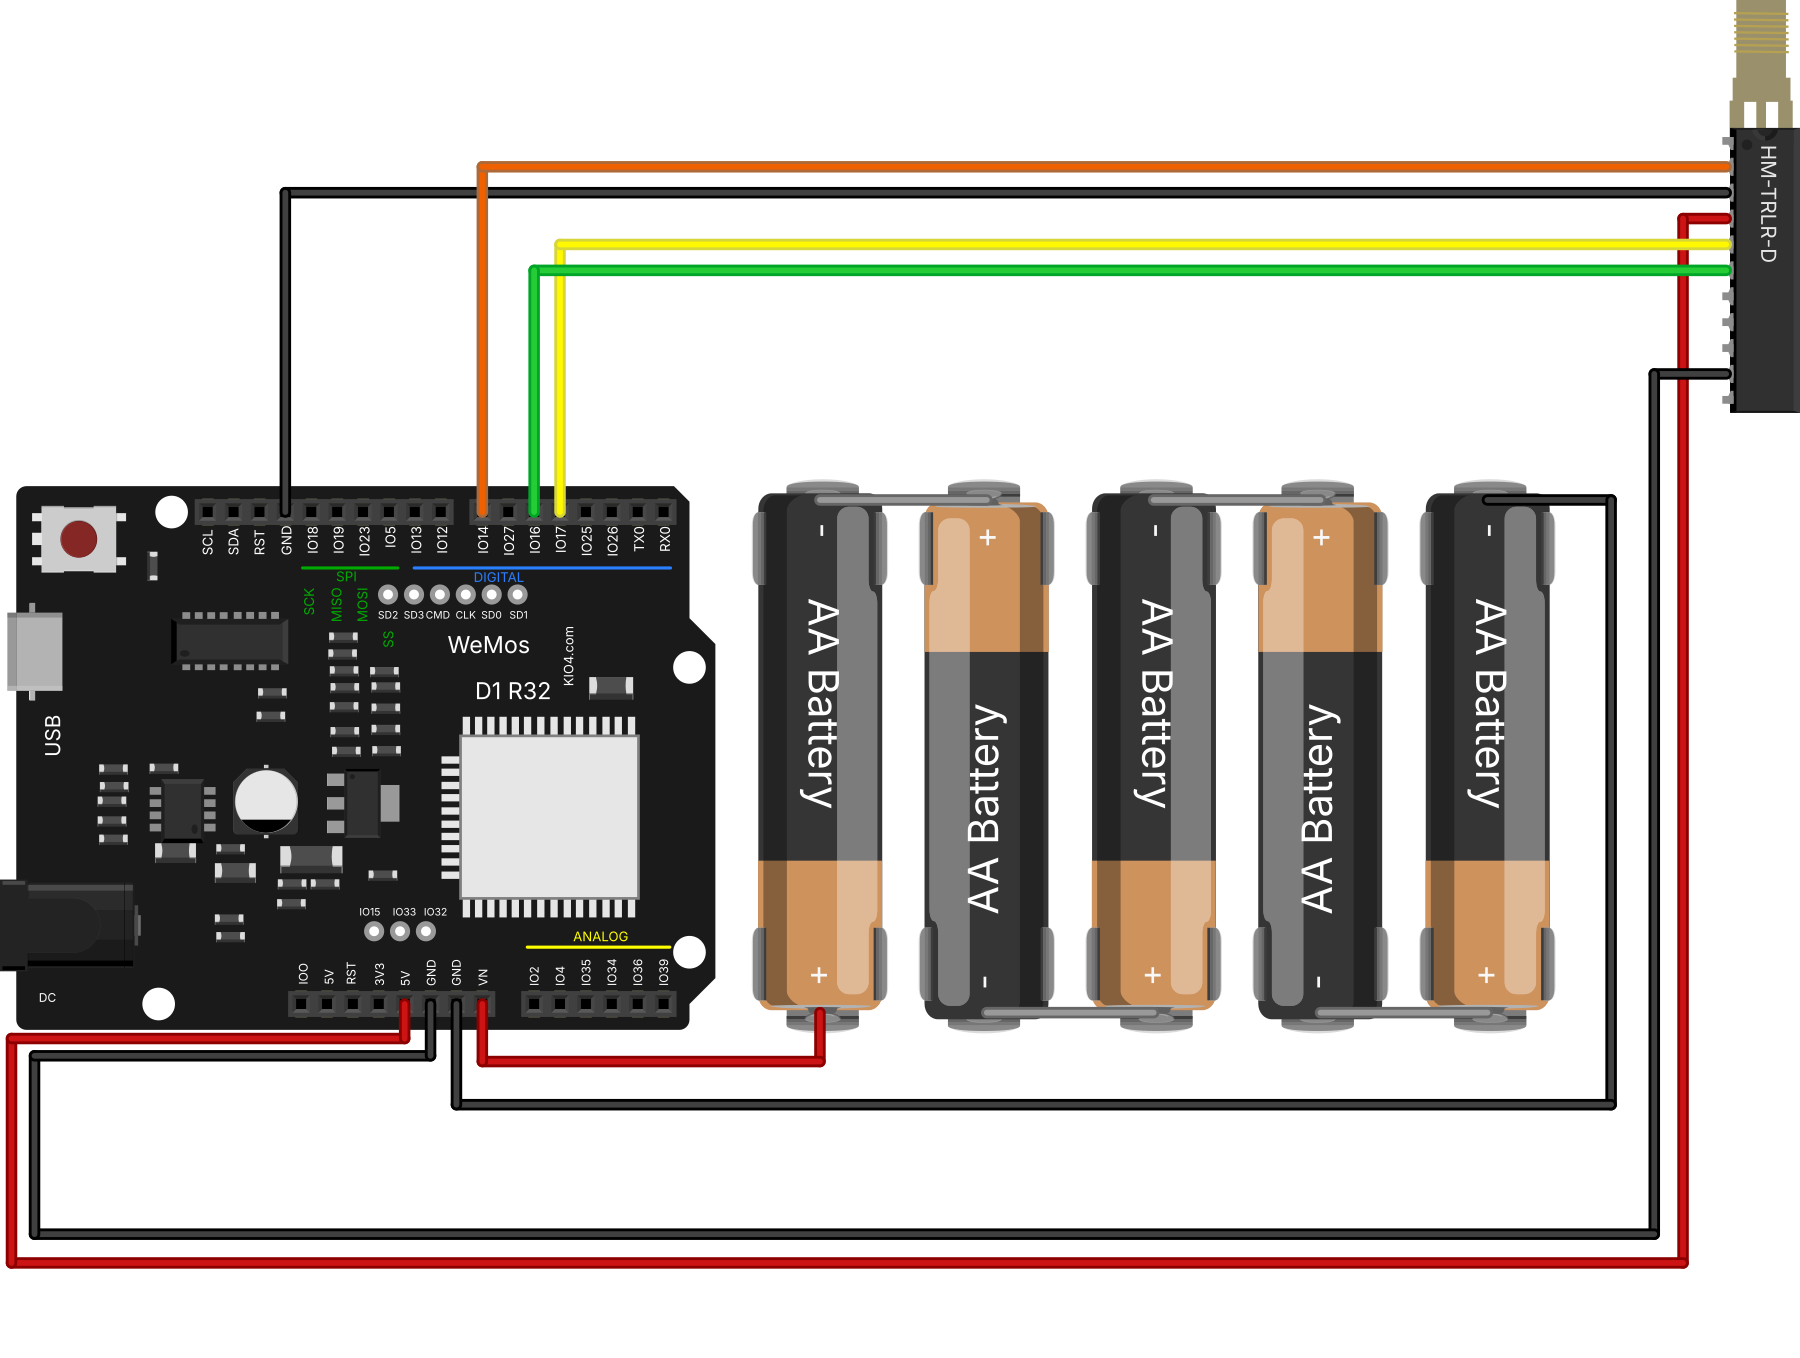
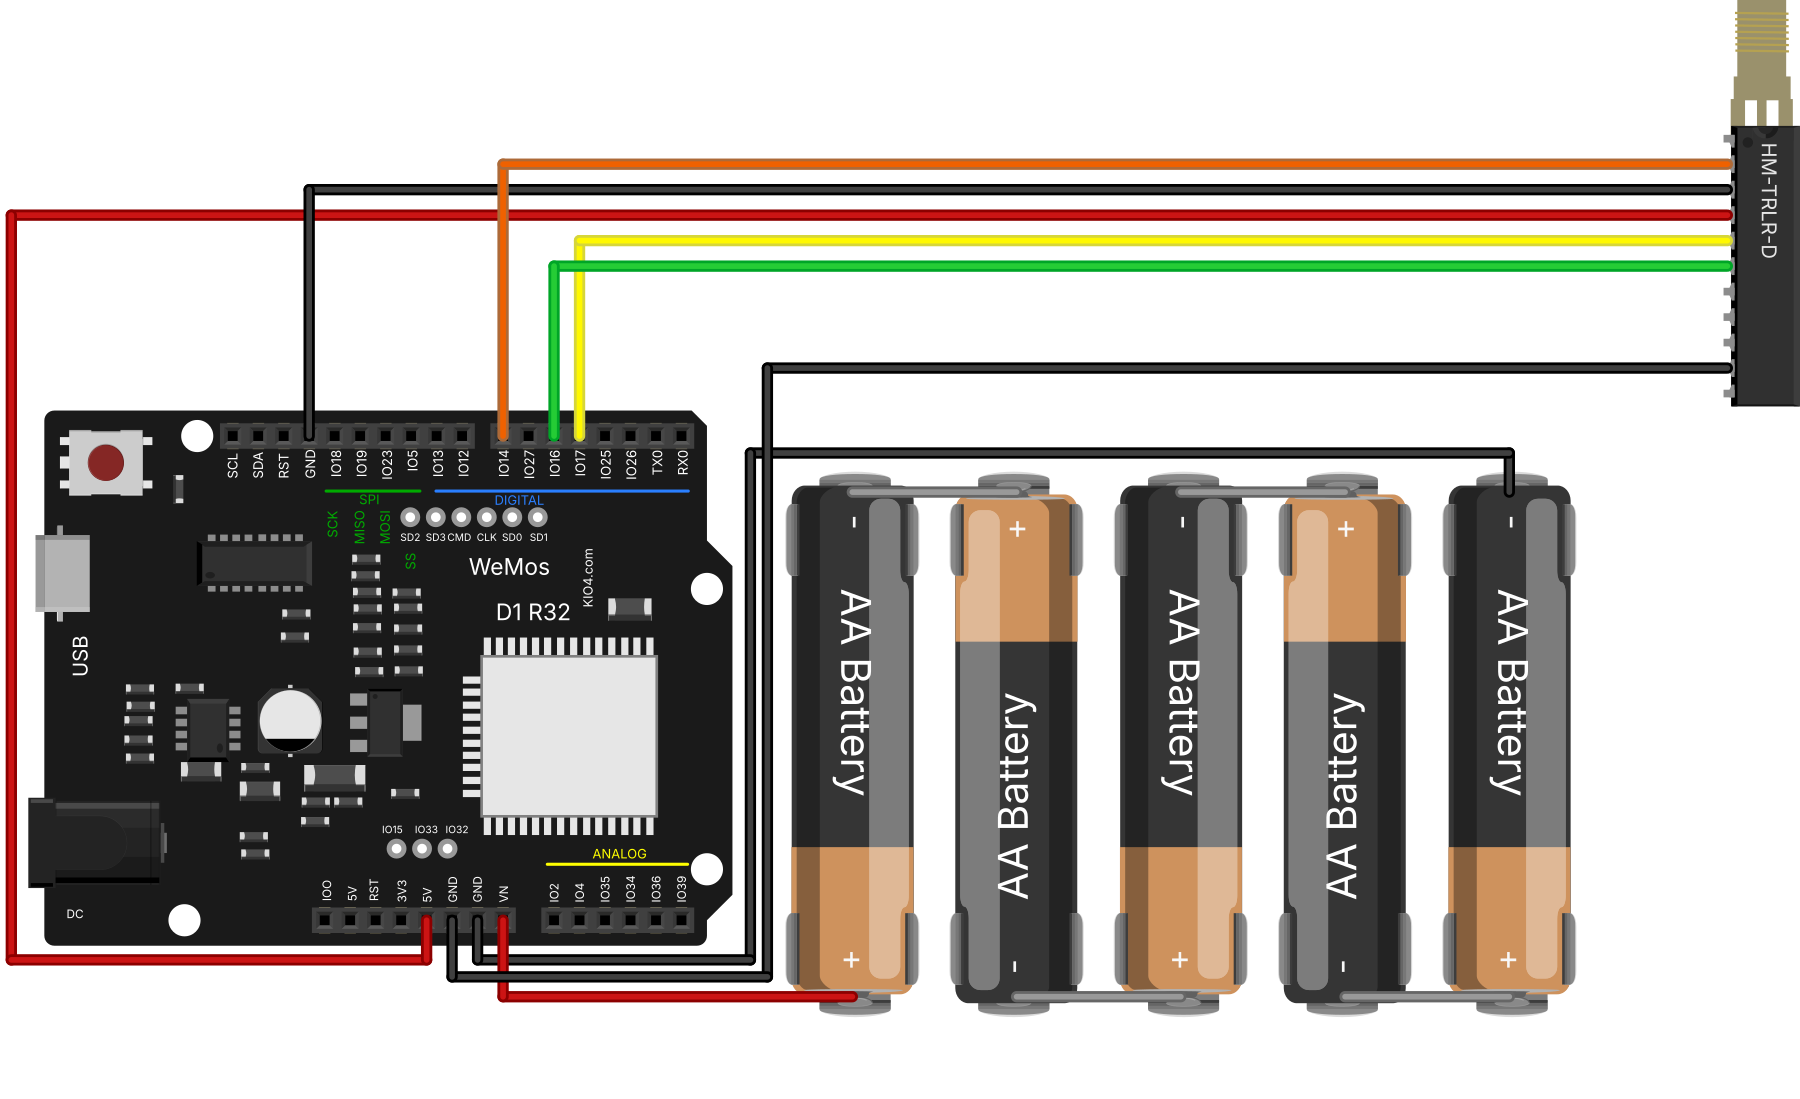
fox-transmitter diagram: power wires stay within the height of the board and cells

diff --git a/software/fox-transmitter/docs/fritzing/make_fzz.py b/software/fox-transmitter/docs/fritzing/make_fzz.py
@@ -25,7 +25,7 @@ RED, BLACK, YELLOW, GREEN, ORANGE, GREY = "#cc1414", "#404040", "#ffe24d", "#47c
 
 sk = Sketch()
 r32 = Part(sk, "Wemos-D1-R32_1", "part.Wemos-D1-R32_1.fzp", "WeMos D1 R32",
-           os.path.join(OWN, "svg.breadboard.Wemos-D1-R32_1_breadboard.svg"), (0, 0), 0,
+           os.path.join(OWN, "svg.breadboard.Wemos-D1-R32_1_breadboard.svg"), (0, -24.0), 0,
            fzp=os.path.join(OWN, "part.Wemos-D1-R32_1.fzp"))
 B = {"IO14": "connector21", "IO16": "connector19", "IO17": "connector18", "5V": "connector4",
      "GND": "connector5", "GND_VIN": "connector6", "VIN": "connector7", "GND_TOP": "connector28"}
@@ -56,7 +56,7 @@ AA = "SparkFun-Electromechanical-BATTERY-AA"
 AA_FZP = os.path.join(LIB, "core/sparkfun-electromechanical-battery-aa.fzp")
 AA_SVG = os.path.join(LIB, "svg/core/breadboard/sparkfun-electromechanical_battery-aa_breadboard.svg")
 PLUS, MINUS = "connector0", "connector1"  # right / left end of the cell art
-X_CELL1, CELL_PITCH, Y_CELL_BOTTOM = 285.0, 58.0, 183.0
+X_CELL1, CELL_PITCH, Y_CELL_BOTTOM = 291.0, 58.0, 183.0
 cells = []
 for k in range(5):
     plus_down = k % 2 == 0
@@ -65,31 +65,31 @@ for k in range(5):
     c.place(PLUS if plus_down else MINUS, (X_CELL1 + CELL_PITCH * k, Y_CELL_BOTTOM))  # bottom end
     cells.append(c)
 
-# Module 5V and SLEEP runs: down between the pack and the module, under
-# everything, up the left of the board and into the power header from below,
-# so they never meet the battery leads.
-X_SLEEP, X_5V = 575.0, 585.0          # right side, 5V outermost
-X_SLEEP_L, X_5V_L = 12.0, 4.0         # left side, 5V outermost
-Y_5V_TOP, Y_SLEEP_TOP = 192.0, 198.0  # just under the power header
-Y_BATP, Y_BATM = 200.0, 215.0         # battery leads under the header
-X_BATM = 560.0                        # battery - comes down right of the pack
+# The board sits higher than the pack, so everything going to its power header
+# runs in the strip under it and never below the cells. Battery + comes in from
+# the bottom of the first cell into VIN, the rightmost pin, so the module's 5V
+# (the leftmost pin) goes round the left of the board instead of crossing it.
+# Module SLEEP and battery - come down the gap between the board and the pack.
+X_5V_L = -6.0                         # 5V down the left of the board
+X_BATM, X_SLEEP = 255.0, 261.0        # gap between the board and the pack
+Y_BATM, Y_SLEEP, Y_5V_LOW = 170.0, 176.0, 170.0
+Y_BATM_TOP = -9.0                     # battery - over the top of the cells
 y = {n: sip.pt(M[n])[1] for n in PINS}
 pins = {k: r32.pt(v) for k, v in B.items()}
+assert r32.bbox()[3] < Y_BATM - 3 and Y_SLEEP < cells[0].pt(PLUS)[1] - 3
 bat_plus, bat_minus = cells[0].pt(PLUS), cells[4].pt(MINUS)
-Y_SLEEP_LOW, Y_5V_LOW = Y_BATM + 45, Y_BATM + 55
 nodes = {
     "cfg": (sip, M["CONFIG"]), "c1": (pins["IO14"][0], y["CONFIG"]), "io14": (r32, B["IO14"]),
     "rxd": (sip, M["RXD"]), "r1": (pins["IO17"][0], y["RXD"]), "io17": (r32, B["IO17"]),
     "txd": (sip, M["TXD"]), "t1": (pins["IO16"][0], y["TXD"]), "io16": (r32, B["IO16"]),
-    "m5v": (sip, M["5V"]), "v1": (X_5V, y["5V"]), "v2": (X_5V, Y_5V_LOW), "v3": (X_5V_L, Y_5V_LOW),
-    "v4": (X_5V_L, Y_5V_TOP), "v5": (pins["5V"][0], Y_5V_TOP), "b5v": (r32, B["5V"]),
+    "m5v": (sip, M["5V"]), "v1": (X_5V_L, y["5V"]), "v2": (X_5V_L, Y_5V_LOW), "v3": (pins["5V"][0], Y_5V_LOW),
+    "b5v": (r32, B["5V"]),
     "mgnd": (sip, M["GND"]), "g1": (pins["GND_TOP"][0], y["GND"]), "bgndt": (r32, B["GND_TOP"]),
-    "sleep": (sip, M["SLEEP"]), "s1": (X_SLEEP, y["SLEEP"]), "s2": (X_SLEEP, Y_SLEEP_LOW),
-    "s3": (X_SLEEP_L, Y_SLEEP_LOW), "s4": (X_SLEEP_L, Y_SLEEP_TOP), "s5": (pins["GND"][0], Y_SLEEP_TOP),
-    "bgnd": (r32, B["GND"]),
-    "bp": (cells[0], PLUS), "bp1": (bat_plus[0], Y_BATP), "bp2": (pins["VIN"][0], Y_BATP), "vin": (r32, B["VIN"]),
-    "bm": (cells[4], MINUS), "bm1": (X_BATM, bat_minus[1]), "bm2": (X_BATM, Y_BATM),
-    "bm3": (pins["GND_VIN"][0], Y_BATM), "bgndv": (r32, B["GND_VIN"]),
+    "sleep": (sip, M["SLEEP"]), "s1": (X_SLEEP, y["SLEEP"]), "s2": (X_SLEEP, Y_SLEEP),
+    "s3": (pins["GND"][0], Y_SLEEP), "bgnd": (r32, B["GND"]),
+    "bp": (cells[0], PLUS), "bp1": (pins["VIN"][0], bat_plus[1]), "vin": (r32, B["VIN"]),
+    "bm": (cells[4], MINUS), "bm1": (bat_minus[0], Y_BATM_TOP), "bm2": (X_BATM, Y_BATM_TOP),
+    "bm3": (X_BATM, Y_BATM), "bm4": (pins["GND_VIN"][0], Y_BATM), "bgndv": (r32, B["GND_VIN"]),
 }
 edges = []
 for k in range(4):  # series links between neighbouring cells (holder springs)
@@ -98,23 +98,24 @@ for k in range(4):  # series links between neighbouring cells (holder springs)
     edges.append((f"l{k}a", f"l{k}b", GREY))
 edges += [
     # power first so it is drawn underneath the signal wires it has to pass
-    ("bm", "bm1", BLACK), ("bm1", "bm2", BLACK), ("bm2", "bm3", BLACK), ("bm3", "bgndv", BLACK),  # - -> GND
-    ("bp", "bp1", RED), ("bp1", "bp2", RED), ("bp2", "vin", RED),                                 # + -> VIN
-    ("m5v", "v1", RED), ("v1", "v2", RED), ("v2", "v3", RED), ("v3", "v4", RED), ("v4", "v5", RED), ("v5", "b5v", RED),
+    ("bm", "bm1", BLACK), ("bm1", "bm2", BLACK), ("bm2", "bm3", BLACK), ("bm3", "bm4", BLACK),
+    ("bm4", "bgndv", BLACK),                                                                 # - -> GND
+    ("bp", "bp1", RED), ("bp1", "vin", RED),                                                 # + -> VIN
+    ("m5v", "v1", RED), ("v1", "v2", RED), ("v2", "v3", RED), ("v3", "b5v", RED),
     ("mgnd", "g1", BLACK), ("g1", "bgndt", BLACK),                             # module GND -> top GND
-    ("sleep", "s1", BLACK), ("s1", "s2", BLACK), ("s2", "s3", BLACK), ("s3", "s4", BLACK), ("s4", "s5", BLACK),
-    ("s5", "bgnd", BLACK),  # SLEEP low = awake
+    ("sleep", "s1", BLACK), ("s1", "s2", BLACK), ("s2", "s3", BLACK), ("s3", "bgnd", BLACK),  # SLEEP low = awake
     ("io14", "c1", ORANGE), ("c1", "cfg", ORANGE),   # GPIO14 -> CONFIG
     ("io17", "r1", YELLOW), ("r1", "rxd", YELLOW),   # GPIO17 (TX) -> module RXD
     ("txd", "t1", GREEN), ("t1", "io16", GREEN),     # module TXD -> GPIO16 (RX)
 ]
-net(sk, nodes, edges)
-# The module's pin order forces a few crossings: RX/TX swap sides, 5V/GND pass
-# RX/TX, module GND passes CONFIG, SLEEP passes 5V. Nothing else may cross,
-# and no two wires may overlap.
-ALLOWED = [{YELLOW, GREEN}, {RED, YELLOW}, {RED, GREEN}, {BLACK, YELLOW}, {BLACK, GREEN}, {BLACK, ORANGE},
-           {BLACK, RED}]
-check_crossings(sk, allow=lambda a, b: {a.color, b.color} in ALLOWED)
+wires = net(sk, nodes, edges)
+# The pin orders force a few crossings: RX/TX swap sides, module GND passes
+# CONFIG, 5V passes the top GND and CONFIG, battery + passes SLEEP and battery -,
+# and battery - passes SLEEP (both ground). Nothing else may cross, and no two
+# wires may overlap.
+ALLOWED = [{YELLOW, GREEN}, {BLACK, YELLOW}, {BLACK, GREEN}, {BLACK, ORANGE}, {RED, ORANGE}, {BLACK, RED}]
+GROUNDS = {wires[("bm1", "bm2")], wires[("s1", "s2")]}
+check_crossings(sk, allow=lambda a, b: {a.color, b.color} in ALLOWED or {a, b} == GROUNDS)
 
 out = os.path.join(HERE, "fox-transmitter.fz")
 write_fz(sk, out, "Fox transmitter")
